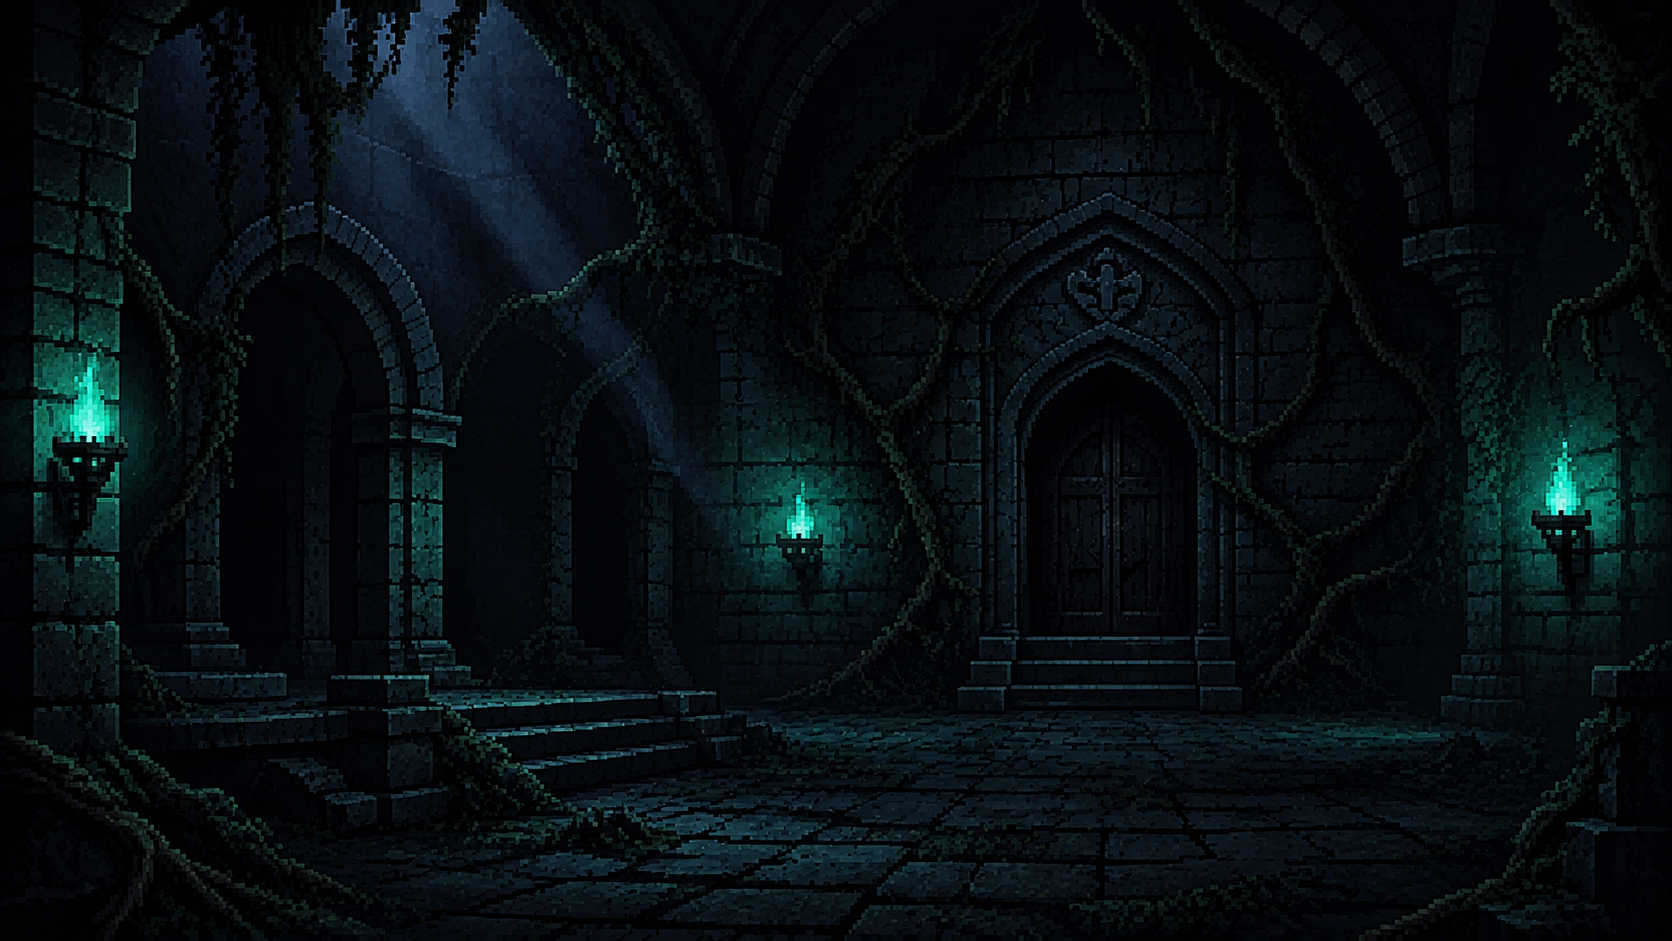
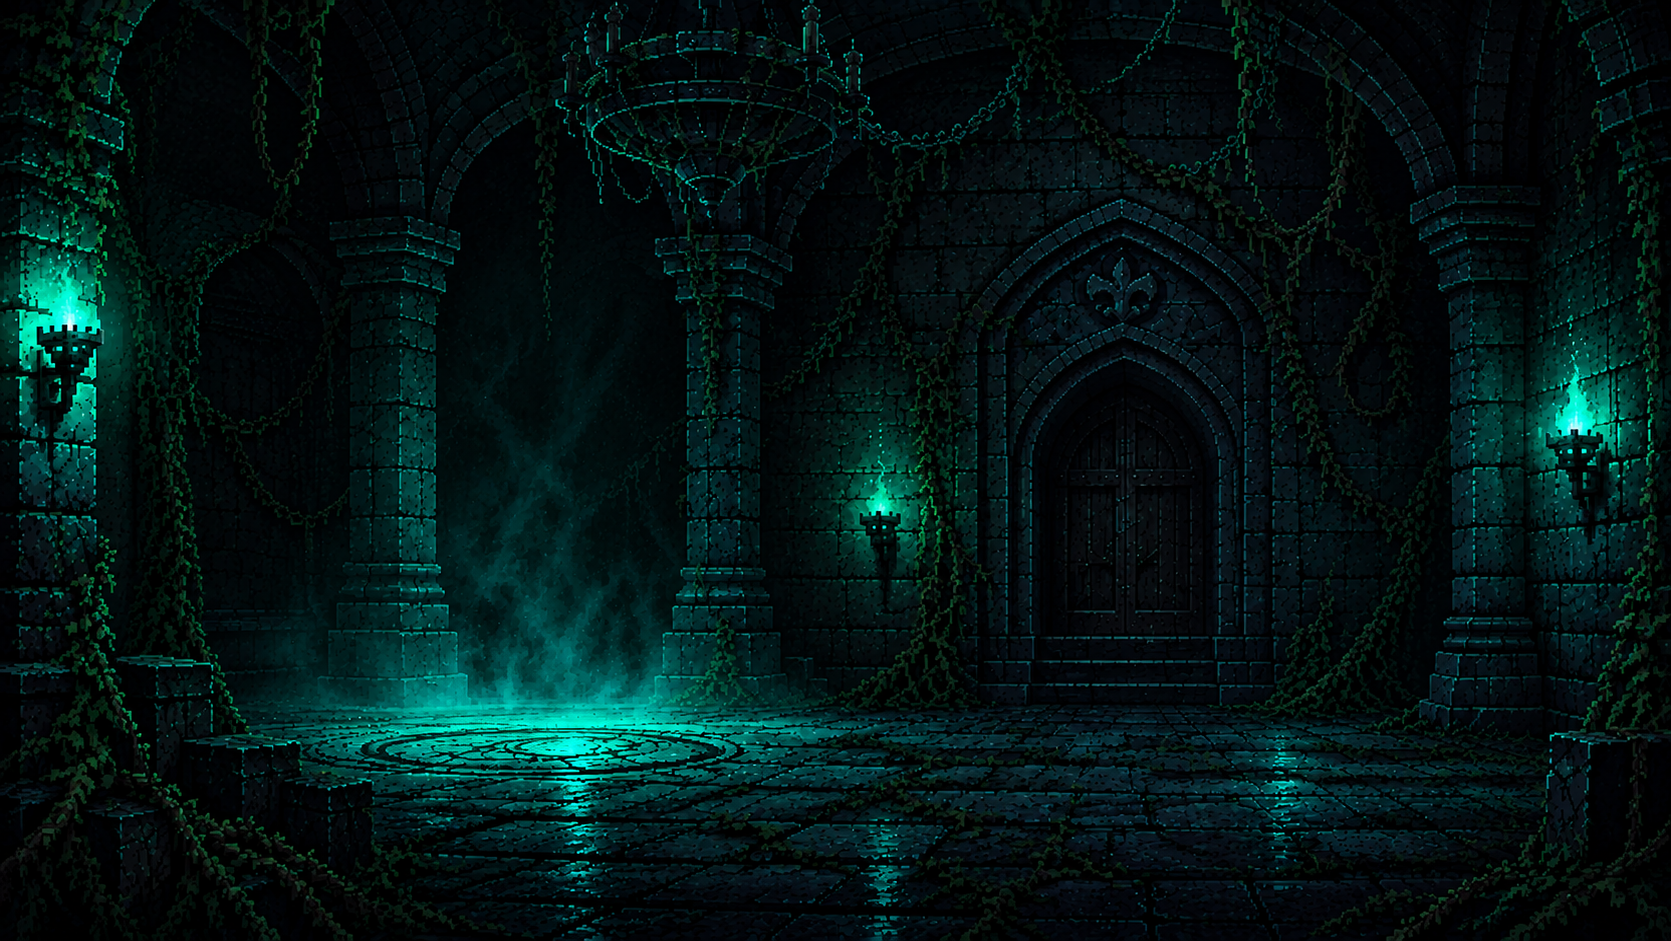
masmora

diff --git a/CSS.css/Fase2CSS.css b/CSS.css/Fase2CSS.css
@@ -8,8 +8,33 @@
 #pedestal{
     position: absolute;
     z-index: 1;
-    top: 405px;
-    left: 245px;
-    width: 280px;
+    top: 325px;
+    left: 420px;
+    width: 230px;
+    height: 450px;
+}
+#pedestal:hover{
+filter: drop-shadow(0 0 10px rgba(8, 199, 212, 0.993)); /*cria a sombra do pedestal ao passar o mouse*/
+}
+#esqueleto{
+    position: absolute;
+    z-index: 1;
+    top: 500px;
+    left: 1150px;
+    width: 450px;
     height: 300px;
+}
+#esqueleto:hover{
+filter: drop-shadow(0 0 10px rgba(8, 199, 212, 0.993)); /*cria a sombra do esqueleto ao passar o mouse*/
+}
+#porta-masmora{
+    position: absolute;
+    z-index: 1;
+    top: 375px;
+    left: 1033px;
+    width: 200px;
+    height: 290px;
+}
+#porta-masmora:hover{
+filter: drop-shadow(0 0 20px rgba(2, 103, 110, 0.993)); /*cria a sombra do esqueleto ao passar o mouse*/
 }

diff --git a/HTML.html/2Fase.html b/HTML.html/2Fase.html
@@ -7,10 +7,14 @@
       <link rel="stylesheet" href="../CSS.css/Fase2CSS.css"><!-- linka a fase 2 ao seu CSS -->
 </head>
 <body>
-    <div id="masmoraDIV">
+    <div id="masmoraDIV" style="display:none">
 <img id="fase3-fundo1" src="../imagens/fase3-fundo1.png">
 <img id="pedestal" src="../imagens/pedestal.png">
-
+<img id="esqueleto" src="../imagens/esqueleto.png">
+<img id="porta-masmora" src="../imagens/porta-masmora.png">
+    </div>
+    <div id="fundo1">
+    <img id="fundo1" src="../imagens/fase2-inicio.png">
 
     </div>
 </body>
